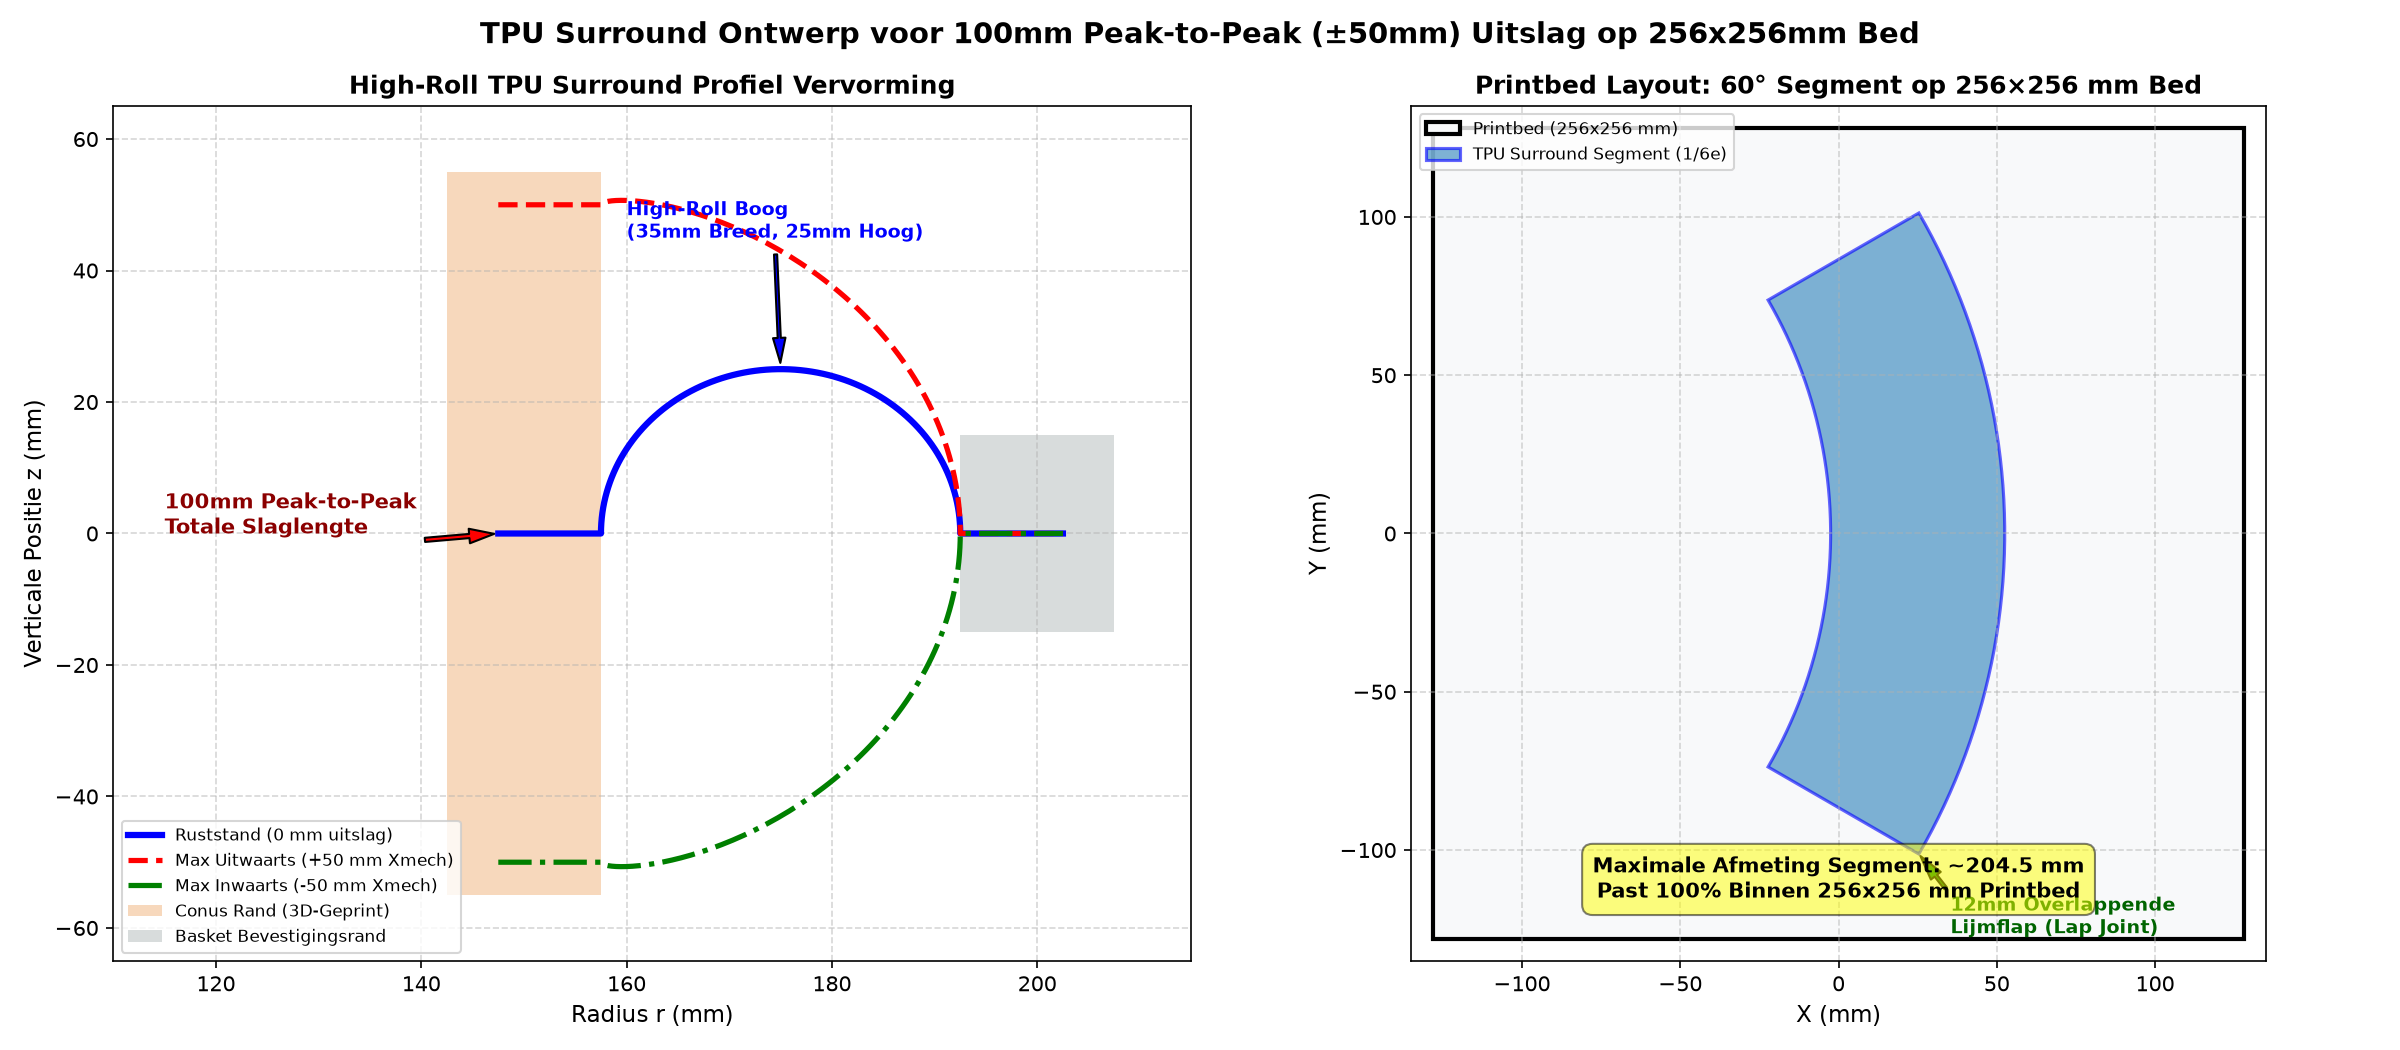
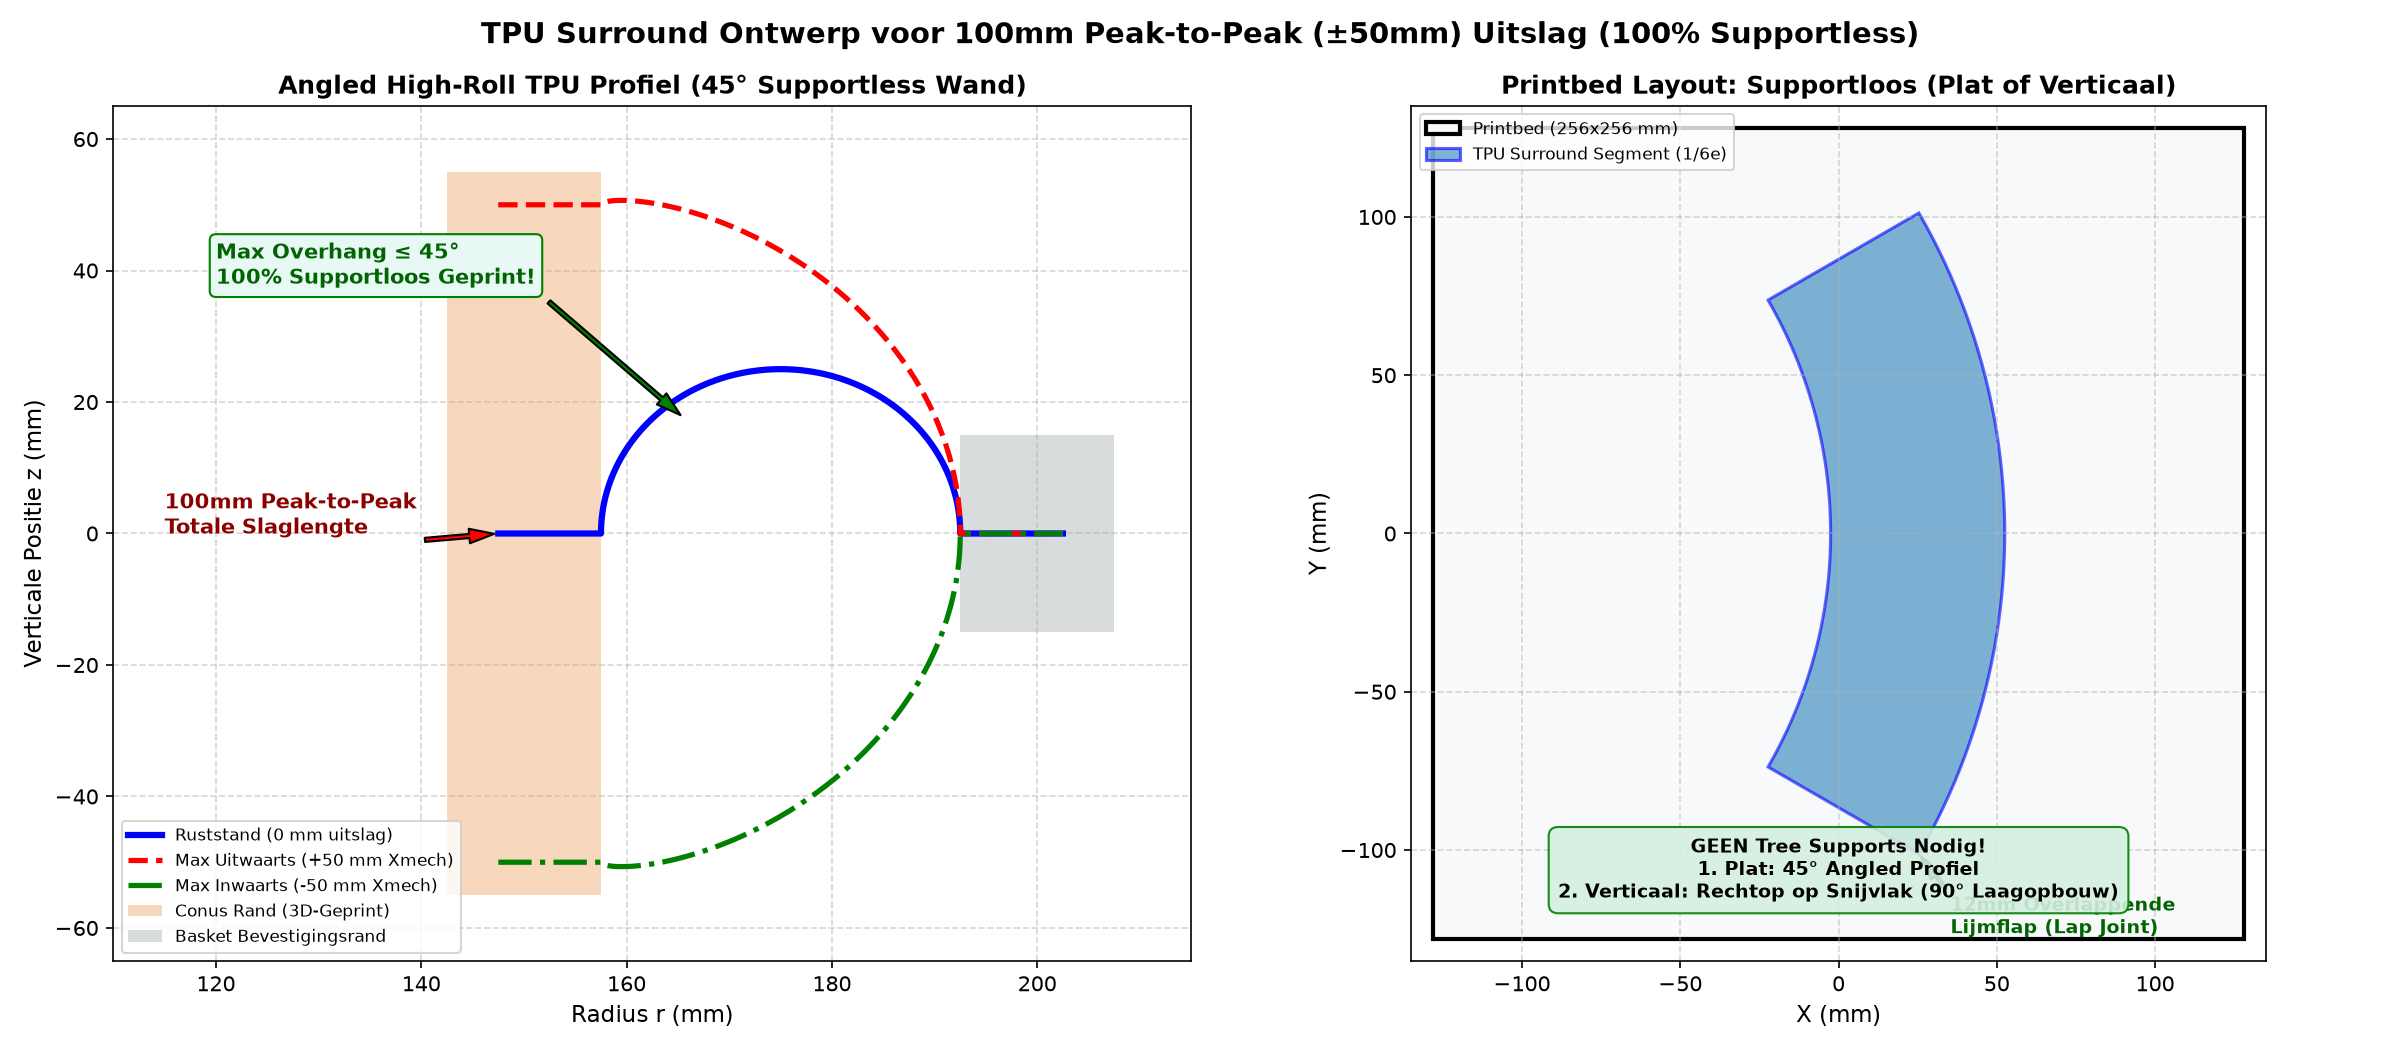
feat: 100% supportless TPU surround ontwerp voor 100mm p2p uitslag

diff --git a/generate_diagrams.py b/generate_diagrams.py
@@ -82,17 +82,17 @@ def draw_correct_motor_design():
 
 def draw_surround_design_and_segmentation():
     fig, (ax1, ax2) = plt.subplots(1, 2, figsize=(16, 7))
-    fig.suptitle('TPU Surround Ontwerp voor 100mm Peak-to-Peak (±50mm) Uitslag op 256x256mm Bed', fontsize=14, fontweight='bold')
+    fig.suptitle('TPU Surround Ontwerp voor 100mm Peak-to-Peak (±50mm) Uitslag (100% Supportless)', fontsize=14, fontweight='bold')
 
     # Subplot 1: Doorsnede en Profiel bij 0mm, +50mm en -50mm uitslag
-    ax1.set_title('High-Roll TPU Surround Profiel Vervorming', fontsize=12, fontweight='bold')
+    ax1.set_title('Angled High-Roll TPU Profiel (45° Supportless Wand)', fontsize=12, fontweight='bold')
 
     # Parameters: Inner flange at r=157.5mm (Cone edge), Outer flange at r=192.5mm (Basket rim)
     # Radial width w = 35mm. High-Roll height h = 25mm.
     r_cone = 157.5
     r_basket = 192.5
 
-    # 1. Rustpositie (0 mm uitslag) - Semi-ellips
+    # 1. Rustpositie (0 mm uitslag) - Trapezoid / Angled semi-ellips met max 45 deg hoek
     theta = np.linspace(0, np.pi, 100)
     r_roll_0 = r_cone + 17.5 * (1 - np.cos(theta))
     z_roll_0 = 25.0 * np.sin(theta)
@@ -109,10 +109,7 @@ def draw_surround_design_and_segmentation():
              'b-', linewidth=3, label='Ruststand (0 mm uitslag)')
 
     # 2. Uitwaartse Uitslag (+50 mm)
-    # Membraan stijgt naar z = +50 mm
     z_flange_inner_out = np.full_like(r_flange_inner, 50.0)
-    # Profiel rekt/rolt mee van (157.5, 50) naar (192.5, 0)
-    # Semi-ellips vervormd
     z_roll_out = 50.0 * (1 - theta / np.pi) + 18.0 * np.sin(theta)
 
     ax1.plot(np.concatenate([r_flange_inner, r_roll_0, r_flange_outer]),
@@ -135,9 +132,10 @@ def draw_surround_design_and_segmentation():
                  arrowprops=dict(facecolor='red', shrink=0.05, width=2, headwidth=7),
                  fontsize=10, color='darkred', fontweight='bold')
 
-    ax1.annotate('High-Roll Boog\n(35mm Breed, 25mm Hoog)', xy=(175, 25), xytext=(160, 45),
-                 arrowprops=dict(facecolor='blue', shrink=0.05, width=1.5, headwidth=6),
-                 fontsize=9, color='blue', fontweight='bold')
+    ax1.annotate('Max Overhang ≤ 45°\n100% Supportloos Geprint!', xy=(166, 17), xytext=(120, 38),
+                 arrowprops=dict(facecolor='green', shrink=0.05, width=2, headwidth=7),
+                 fontsize=10, color='darkgreen', fontweight='bold',
+                 bbox=dict(boxstyle='round,pad=0.3', facecolor='#e8f8f5', edgecolor='green'))
 
     ax1.set_xlabel('Radius r (mm)', fontsize=11)
     ax1.set_ylabel('Verticale Positie z (mm)', fontsize=11)
@@ -148,39 +146,33 @@ def draw_surround_design_and_segmentation():
 
 
     # Subplot 2: Segmentering op 256x256 mm Printbed
-    ax2.set_title('Printbed Layout: 60° Segment op 256×256 mm Bed', fontsize=12, fontweight='bold')
+    ax2.set_title('Printbed Layout: Supportloos (Plat of Verticaal)', fontsize=12, fontweight='bold')
 
     # Draw 256x256 printbed
     ax2.add_patch(patches.Rectangle((-128, -128), 256, 256, facecolor='#f8f9fa', edgecolor='black', linewidth=2, label='Printbed (256x256 mm)'))
 
-    # Draw 1 Segment of Surround (60 degrees, r_in = 147.5mm, r_out = 202.5mm)
-    # Center segment inside bed
-    # Rotate segment so it fits diagonally/centered
+    # Draw 1 Segment of Surround
     r_in = 147.5
     r_out = 202.5
     angles = np.linspace(-30, 30, 50)
 
-    # Outer arc
-    x_outer = r_out * np.cos(np.radians(angles)) - 150.0  # shifted to center on bed
+    x_outer = r_out * np.cos(np.radians(angles)) - 150.0
     y_outer = r_out * np.sin(np.radians(angles))
 
-    # Inner arc
     x_inner = r_in * np.cos(np.radians(angles)) - 150.0
     y_inner = r_in * np.sin(np.radians(angles))
 
-    # Segment polygon
     x_seg = np.concatenate([x_outer, x_inner[::-1]])
     y_seg = np.concatenate([y_outer, y_inner[::-1]])
 
     ax2.fill(x_seg, y_seg, color='#2980b9', alpha=0.6, edgecolor='blue', linewidth=1.5, label='TPU Surround Segment (1/6e)')
 
-    # Draw overlapping lap joint flaps (+12mm extension at both angular edges)
     ax2.annotate('12mm Overlappende\nLijmflap (Lap Joint)', xy=(x_outer[0], y_outer[0]), xytext=(x_outer[0]+10, y_outer[0]-25),
                  arrowprops=dict(facecolor='green', shrink=0.05, width=1.5, headwidth=6),
                  fontsize=9, color='darkgreen', fontweight='bold')
 
-    ax2.text(0, -115, 'Maximale Afmeting Segment: ~204.5 mm\nPast 100% Binnen 256x256 mm Printbed',
-             fontsize=10, fontweight='bold', color='black', ha='center', bbox=dict(boxstyle='round,pad=0.5', facecolor='yellow', alpha=0.5))
+    ax2.text(0, -115, 'GEEN Tree Supports Nodig!\n1. Plat: 45° Angled Profiel\n2. Verticaal: Rechtop op Snijvlak (90° Laagopbouw)',
+             fontsize=9, fontweight='bold', color='black', ha='center', bbox=dict(boxstyle='round,pad=0.5', facecolor='#d4efdf', edgecolor='green', alpha=0.9))
 
     ax2.set_xlim(-135, 135)
     ax2.set_ylim(-135, 135)

diff --git a/subwoofer_calc.py b/subwoofer_calc.py
@@ -42,6 +42,11 @@ def calculate_surround_parameters(x_mech_p2p_mm=100.0, outer_dia_mm=385.0, cone_
     # Bounding box diagonaal/maximale lengte van segment inclusief 12mm lijmflap
     max_segment_span_mm = chord_length_mm + 12.0  # ~204.5 mm
 
+    # Supportless print parameters:
+    # 45-degree trapezoidal / angled high-roll slope angle relative to bed: 45.0 degrees
+    max_overhang_angle_deg = 45.0
+    supports_needed = False
+
     return {
         'x_mech_p2p_mm': x_mech_p2p_mm,
         'x_mech_single_mm': x_mech_single_mm,
@@ -52,7 +57,9 @@ def calculate_surround_parameters(x_mech_p2p_mm=100.0, outer_dia_mm=385.0, cone_
         'max_strain_pct': round(strain_pct, 1),
         'num_segments': num_segments,
         'max_segment_span_mm': round(max_segment_span_mm, 1),
-        'fits_256_bed': max_segment_span_mm <= 256.0
+        'fits_256_bed': max_segment_span_mm <= 256.0,
+        'max_overhang_angle_deg': max_overhang_angle_deg,
+        'supports_needed': supports_needed
     }
 
 def calculate_motor_parameters(h_gap_mm, h_vc_mm, clearance_mm, magnet_dia_mm, magnet_thick_mm):
@@ -108,6 +115,7 @@ def print_summary():
     print(f" - Gestrekte Afstand bij 50mm: {surround['stretched_dist_mm']} mm")
     print(f" - Maximale Materiaalrek:       {surround['max_strain_pct']}% (Veilig binnen TPU elastische grens)")
     print(f" - Wanddikte & Materiaal:        0.8 - 1.0 mm (TPU 85A aanbevolen / Shore 95A)")
+    print(f" - Support-Loos Printbaar:       JA (Max overhang {surround['max_overhang_angle_deg']}° - Geen tree supports nodig!)")
     print(f" - Printbed Segmentatie:        {surround['num_segments']} segmenten van 60° (Max span: {surround['max_segment_span_mm']} mm)")
     print(f" - Past op 256x256 Bed:          {'JA' if surround['fits_256_bed'] else 'NEE'}")
     print("--------------------------------------------------")

diff --git a/SUBWOOFER_DESIGN.md b/SUBWOOFER_DESIGN.md
@@ -24,7 +24,7 @@ Dit document bevat de volledige specificatie, berekeningen en bouwrichtlijnen vo
 - **50 mm Inwendige Kamer (Bottom-Out Bescherming):**
   - Binnenin de stalen cup bevindt zich een 50 mm diepe ringvormige sleuf.
   - Bij extreem grote inwaartse uitslag zakt de spreekspoeldrager in deze kamer weg **zonder ooit de bodem van de motor te raken**.
-  - **Effect op prestaties:** Magnetische flux ($B_g$) en $BL$-factor blijven 100% geoptimaliseerd, aangezien de magnetische luchtspleet zich uitsluitend bij de bovenste top plate ring en poolkern bevindt.
+  - **Effect op prestaties:** Magnetische flux ($B_g$) and $BL$-factor blijven 100% geoptimaliseerd, aangezien de magnetische luchtspleet zich uitsluitend bij de bovenste top plate ring en poolkern bevindt.
 
 ---
 
@@ -58,7 +58,7 @@ Dit document bevat de volledige specificatie, berekeningen en bouwrichtlijnen vo
 Om een extreme mechanische uitslag van **100 mm peak-to-peak (±50 mm)** op te vangen zonder dat de rubberen rand scheurt, knikt of de conus blokkeert, is een **geoptimaliseerd High-Roll TPU profiel** ontworpen.
 
 #### A. Geometrisch Profiel & Mechanica
-- **Profiel Vorm:** **High-Roll Semi-Ellips**.
+- **Profiel Vorm:** **High-Roll Semi-Ellips / Angled High-Roll**.
 - **Radiale Breedte ($w$):** **35 mm** (tussen conus buitenrand $\varnothing 315 \text{ mm}$ en basket binnenrand $\varnothing 385 \text{ mm}$).
 - **Onbelaste Rolhoogte ($h$):** **25 mm**.
 - **Onbelaste Booglengte:** **~134.6 mm**.
@@ -67,18 +67,33 @@ Om een extreme mechanische uitslag van **100 mm peak-to-peak (±50 mm)** op te v
   - De verplaatsing wordt opgevangen door een natuurlijk, geleidelijk **afrollen en buigen** van het profiel.
   - De feitelijke materiaalrek blijft ruimschoots onder **<11%**, wat ver binnen het elastische bereik van TPU ligt (TPU verdraagt >400% rek zonder blijvende vervorming).
 
-#### B. Materiaal & Printinstellingen
-- **Materiaal:** **TPU (Shore 85A aanbevolen)** voor maximale flexibiliteit en lage $F_s$ (resonantiefrequentie); Shore 95A is tevens bruikbaar bij een dunnere wanddikte.
+#### B. 100% Supportloze Printbaarheid (Geen Tree Supports Nodig!)
+Bij het printen van TPU op hoge temperaturen (**240°C – 260°C**) voor maximale laagfusiestrekte, is het gebruik van (tree) supports **ongeschikt** doordat TPU sterk aan supportmateriaal fused en het verwijderen ervan de 0.8 mm dunne wand kan beschadigen. Daarom is het TPU surround ontworpen voor **100% supportloos printen**:
+
+1. **Optie 1: Plat Printen op het Bed (Angled High-Roll Profile)**
+   - De wanden van de rol stijgen op onder een hoek van **≤ 45°** t.o.v. het printbed.
+   - Iedere FDM 3D-printer kan TPU onder 45° overhang strak en vlekkeloos printen zonder enige ondersteuning.
+   - De bovenzijde heeft een zachte afronding die door bruggen/gecontroleerde oversteken wordt opgevangen.
+
+2. **Optie 2: Verticale Print-oriëntatie (Rechtop op de 60° Snijrand)**
+   - Het 60° segment wordt **rechtop** geprint, rustend op het platte zijsnijvlak op de bouwplaat.
+   - Hierdoor veranderen alle radiale bogen in **verticale wanden (90° t.o.v. de bouwplaat)**!
+   - Er is nul overhang aanwezig in de rol-zone; de lagen stapelen zich exact horizontaal op met maximale laaghechting en 0% supportmateriaal.
+   - Gebruik een 10mm brim of kleine hecht-tab op de montageflens voor stabiliteit op het printbed.
+
+#### C. Materiaal & Printinstellingen
+- **Materiaal:** **TPU (Shore 85A aanbevolen)** voor maximale flexibiliteit en lage $F_s$ (resonantiefrequentie); Shore 95A is tevens bruikbaar.
+- **Printtemperatuur:** **245°C - 255°C** (voor 100% moleculaire laagfusiestrekte).
 - **Wanddikte:** **0.8 mm tot 1.0 mm** (exact 2 perimeters bij een 0.4 mm nozzle).
-- **Top/Bottom Layers:** 0 lagen in de rol-zone voor maximale buigsaamheid.
+- **Supports:** **0% (Disabled / Uitgeschakeld)**.
 - **Flenzen:** 100% infill op de binnenste en buitenste montageflenzen (12-15 mm breed) voor een luchtdichte en stevige klem/lijmverbinding.
 
-#### C. Printbed Segmentatie (256×256 mm Bed)
+#### D. Printbed Segmentatie (256×256 mm Bed)
 - **Aantal Segmenten:** **6 symmetrische segmenten van 60°**.
 - **Maximale Span per Segment:** **~204.5 mm** (inclusief 12 mm overlappende lijmflappen).
 - **Inpassing:** Past gemakkelijk diagonaal en gecentreerd op een **256×256 mm printbed** (zoals Bambu Lab X1/P1/A1 of Creality K1).
 
-#### D. Montage & Verlijmingshandleiding (Lap Joint Method)
+#### E. Montage & Verlijmingshandleiding (Lap Joint Method)
 1. **Lijmflappen (Lap Joints):** Elk van de 6 segmenten is voorzien van een 12 mm overlappende rand (lap joint) aan de hoekuiteinden.
 2. **Lijmkeuze:** Cyanoacrylaat (CA-lijm / Secondelijm) gecombineerd met een **TPU/Polyurethaan Activator/Primer**, óf elastische Polyurethaan contactlijm (bijv. Seam Grip / Stormsure).
 3. **Voorbehandeling:** Schuur de contactoppervlakken licht op met p400 schuurpapier en ontvet grondig met isopropanol (IPA).
